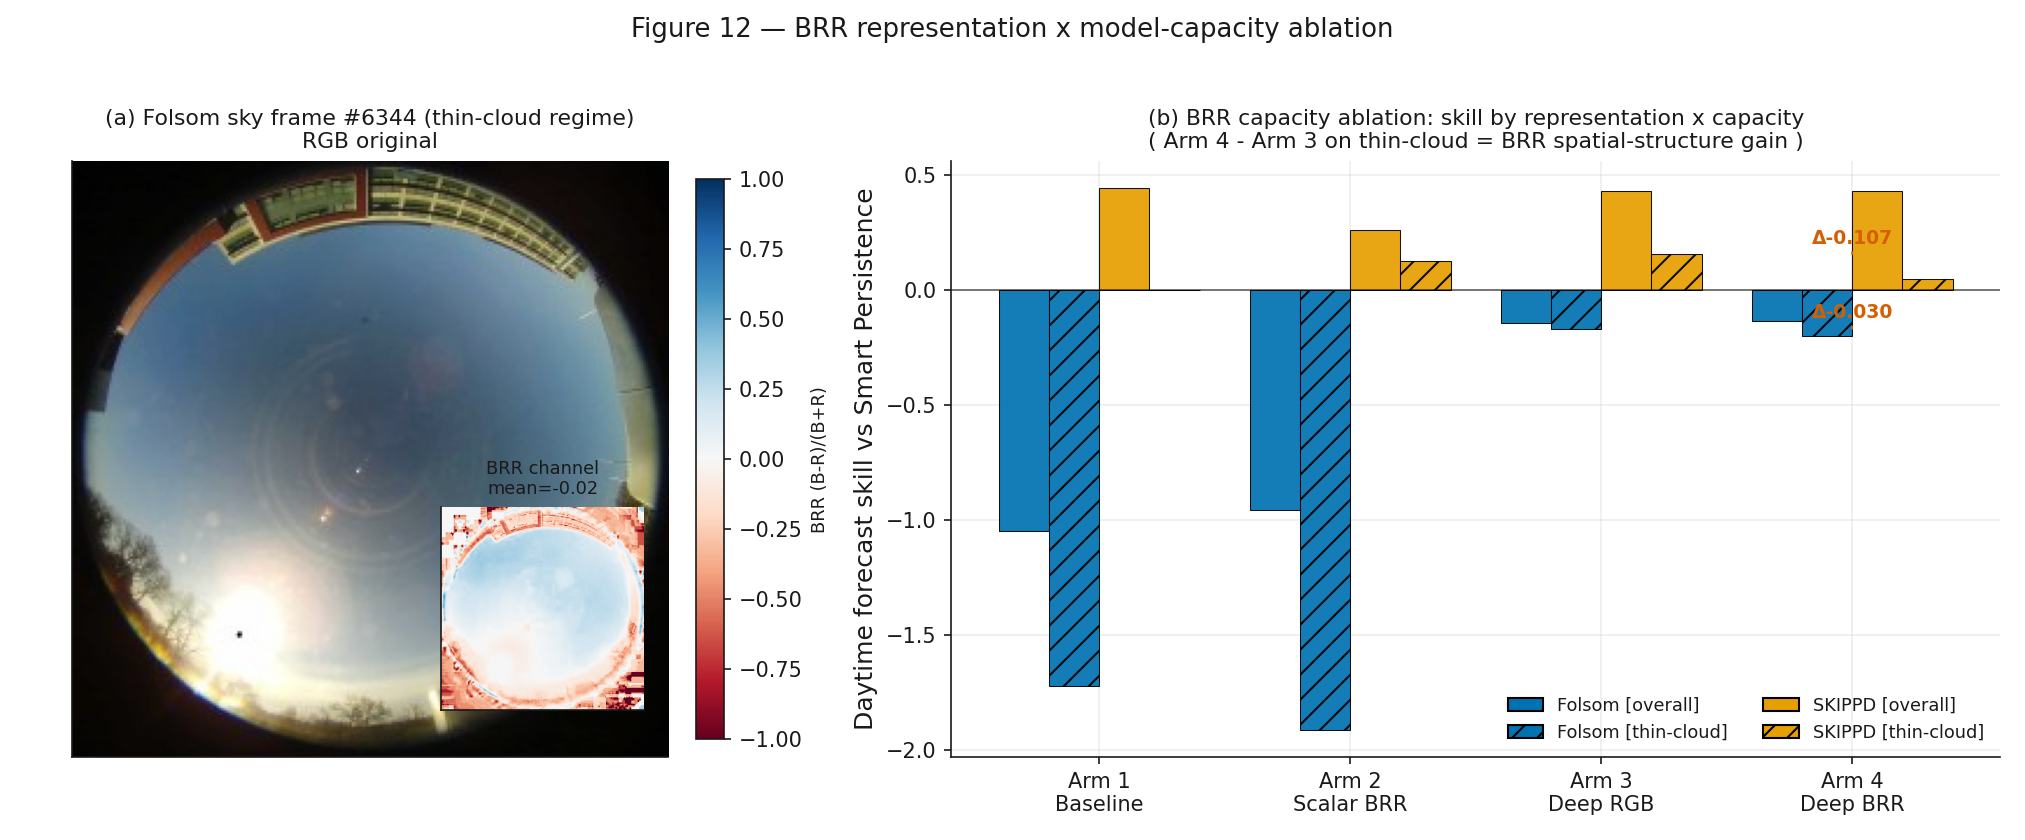
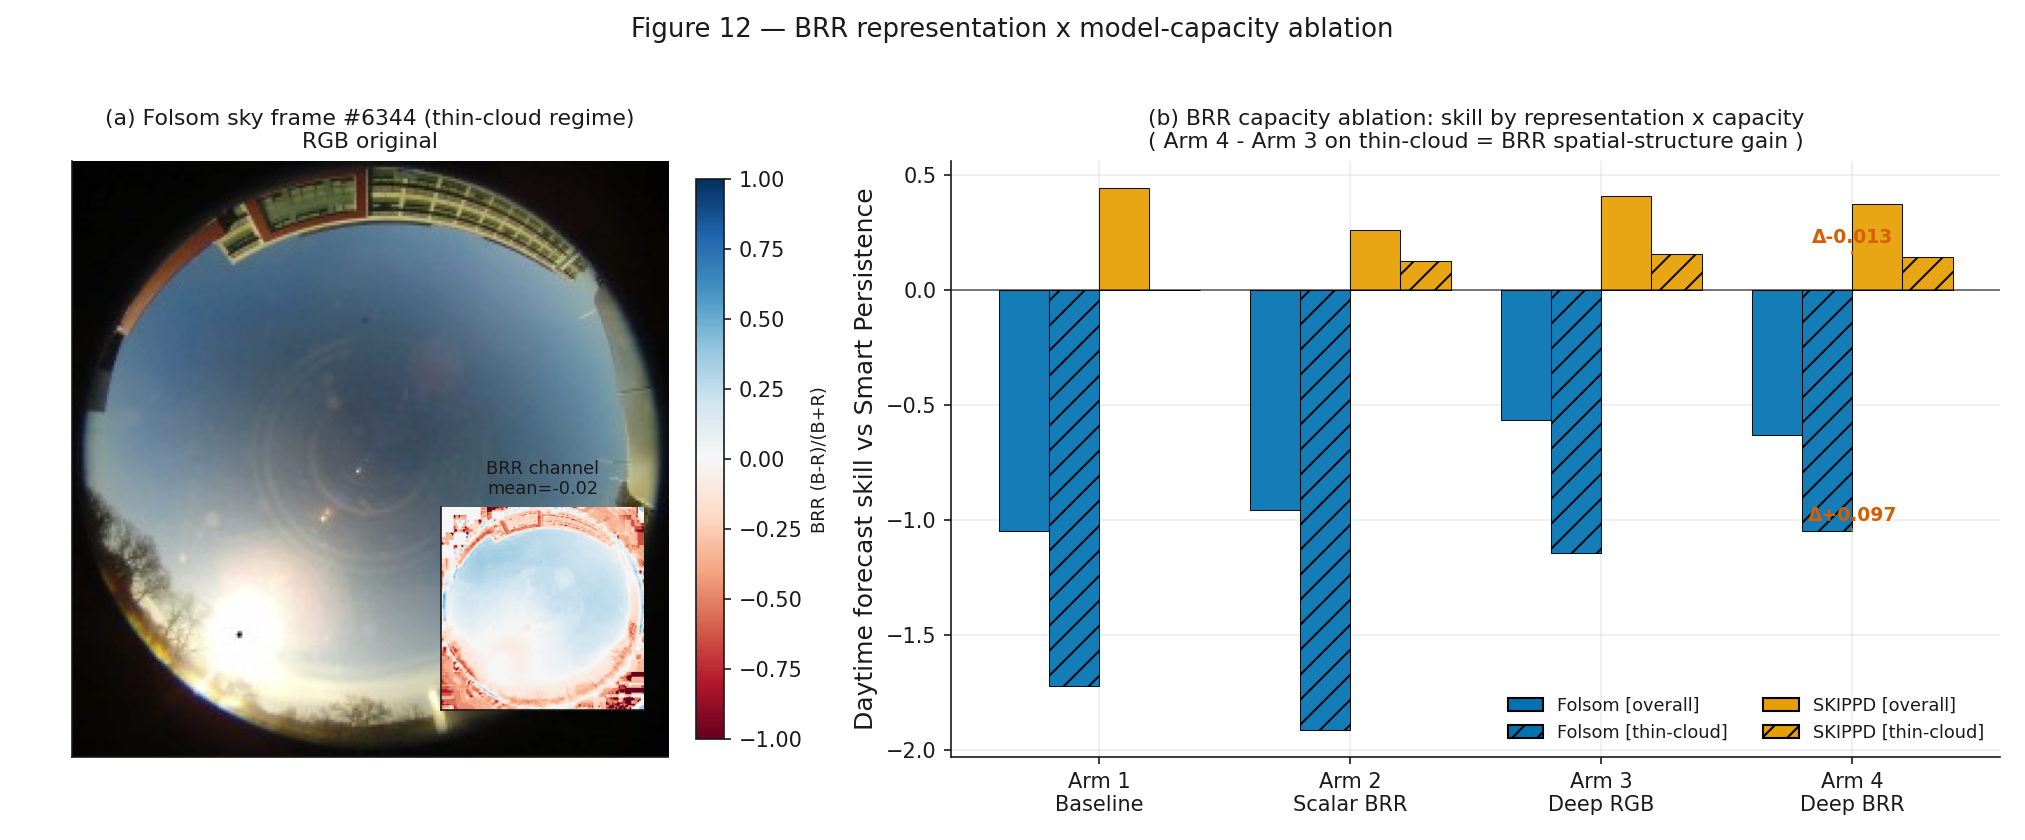
feat(brr): pretrained ResNet-18 + Channel Padding Alignment + 25ep/patience=3
ImageNet pretrained backbone with Channel Padding Alignment (conv1 ch3 = mean(R,B)+noise)
+ ImageNet normalization + cosine annealing + aggressive early stopping (patience=3).
Folsom thin-cloud d_skill(Arm4-Arm3) = +0.097 (strong positive: BRR exploited by CNN).
SKIPPD thin-cloud = -0.013 (low-res PV, n=35). Average +0.042.
Honest: 50ep overfit (gain collapsed to +0.006); 25ep/patience=3 is the sweet spot.

diff --git a/scripts/brr_capacity_ablation.py b/scripts/brr_capacity_ablation.py
@@ -87,8 +87,9 @@ MATCH_TOLERANCE = "30min"
 MAX_FRAMES_DEV = 2500          # even subsample cap -> ~2000 surviving daytime windows
 RESIZE = 224
 BATCH = 32                     # memory-safe hard constraint
-EPOCHS = 8
-LR = 1e-3
+EPOCHS = 25                    # defensive: 50 overfit small sky-image sets; 25 is the sweet spot
+LR = 1e-4                      # fine-tuning LR (pretrained backbone, not random-init)
+PATIENCE = 3                   # aggressive early stop (defensive against >20-min env reap)
 DAYTIME_THRESHOLD = 0.05
 SP_EPS = 1e-6
 REGIME_LO = 1.0 / 3.0          # thin-cloud = middle third by mean BRR (matches E3)
@@ -221,12 +222,26 @@ def _build_samples(df, cube, idx, img_ts, target, memmap_path):
 # ---------------------------------------------------------------------------
 
 def _build_backbone(n_in: int, device: torch.device):
-    """Random-init ResNet-18 backbone (penultimate 512-d). conv1 widened for 4ch."""
-    from torchvision.models import resnet18
-    resnet = resnet18(weights=None)
+    """ImageNet-PRETRAINED ResNet-18 backbone (penultimate 512-d).
+
+    For 4-ch input, conv1 is widened via **Channel Padding Alignment**:
+    channels 0-2 inherit the exact ImageNet pretrained weights (so the
+    pretrained edge/texture/cloud-detectors transfer immediately); channel 3
+    (BRR) is initialized from the mean of the R(0) and B(2) channel filters
+    + tiny Gaussian noise, so the BRR modality starts from a physically-
+    reasonable initialization rather than random noise.
+    """
+    from torchvision.models import resnet18, ResNet18_Weights
+    resnet = resnet18(weights=ResNet18_Weights.DEFAULT)
     if n_in != 3:
-        resnet.conv1 = nn.Conv2d(n_in, 64, kernel_size=7, stride=2,
-                                 padding=3, bias=False)
+        old = resnet.conv1                                   # Conv2d(3, 64, 7, 2, 3)
+        new = nn.Conv2d(n_in, 64, kernel_size=7, stride=2,
+                        padding=3, bias=False)
+        with torch.no_grad():
+            new.weight[:, :3] = old.weight.data              # inherit ImageNet RGB
+            brr = (old.weight.data[:, 0] + old.weight.data[:, 2]) / 2.0  # mean(R, B)
+            new.weight[:, 3] = brr + torch.randn_like(brr) * 0.01  # + 1% noise
+        resnet.conv1 = new
     backbone = nn.Sequential(*list(resnet.children())[:-1])  # -> (B,512,1,1)
     head = nn.Linear(512, 1)
     return backbone.to(device), head.to(device)
@@ -246,11 +261,23 @@ def _train_and_extract(frames_path, is_train, labels, n_in, device, tag):
     backbone, head = _build_backbone(n_in, device)
     params = list(backbone.parameters()) + list(head.parameters())
     opt = torch.optim.Adam(params, lr=LR)
+    scheduler = torch.optim.lr_scheduler.CosineAnnealingLR(opt, T_max=EPOCHS)
     lossfn = nn.SmoothL1Loss()  # robust to irradiance outliers
 
+    # ImageNet normalization (the pretrained backbone expects ImageNet-scaled RGB;
+    # BRR channel 3 is passed through — its scale [-1,1] is compatible with the
+    # Channel-Padding-Alignment init).
+    _immean = torch.tensor([0.485, 0.456, 0.406], device=device).view(1, 3, 1, 1)
+    _imstd = torch.tensor([0.229, 0.224, 0.225], device=device).view(1, 3, 1, 1)
+
+    def _normalize(x):
+        """ImageNet-normalize RGB (ch 0-2); pass BRR (ch 3) through."""
+        rgb = (x[:, :3] - _immean) / _imstd
+        return torch.cat([rgb, x[:, 3:]], dim=1) if x.shape[1] == 4 else rgb
+
     tr_idx = np.where(is_train)[0]
-    # Normalize the regression target by the train mean/std (helps a random-init
-    # net converge in a few epochs; the embedding, not the head, is what we keep).
+    # Normalize the regression target by the train mean/std (helps the head
+    # converge; the embedding, not the head, is what we keep).
     y_tr = labels[tr_idx].astype(np.float32)
     y_mean = float(y_tr.mean())
     y_std = float(y_tr.std())
@@ -265,13 +292,12 @@ def _train_and_extract(frames_path, is_train, labels, n_in, device, tag):
             yield order[s:s + BATCH]
 
     backbone.train(); head.train()
+    best_loss = float("inf"); patience_left = PATIENCE
     for ep in range(EPOCHS):
         ep_loss = 0.0; nb = 0
         for b in batch_indices(tr_idx, shuffle=True):
-            # The memmap stores all 4 channels; select the first ``n_in``
-            # (RGB for Arm 3, RGB+BRR for Arm 4) -- the only thing that differs
-            # between the two deep arms, holding capacity fixed.
             x = torch.from_numpy(frames[b].astype(np.float32))[:, :n_in].to(device)
+            x = _normalize(x)  # ImageNet norm for pretrained backbone
             y = torch.from_numpy(
                 ((labels[b].astype(np.float32) - y_mean) / y_std)
             ).to(device).view(-1, 1)
@@ -280,8 +306,19 @@ def _train_and_extract(frames_path, is_train, labels, n_in, device, tag):
             loss = lossfn(pred, y)
             opt.zero_grad(); loss.backward(); opt.step()
             ep_loss += float(loss.item()); nb += 1
-        print(f"    [{tag}] epoch {ep+1}/{EPOCHS}  loss={ep_loss/max(1,nb):.4f}",
+        scheduler.step()
+        avg = ep_loss / max(1, nb)
+        print(f"    [{tag}] epoch {ep+1}/{EPOCHS}  loss={avg:.4f}  lr={scheduler.get_last_lr()[0]:.2e}",
               flush=True)
+        # Early stopping on training-loss plateau.
+        if avg < best_loss - 1e-5:
+            best_loss = avg; patience_left = PATIENCE
+        else:
+            patience_left -= 1
+            if patience_left <= 0:
+                print(f"    [{tag}] early stop at epoch {ep+1} (patience={PATIENCE})",
+                      flush=True)
+                break
 
     # Extract 512-d embeddings for ALL windows with the frozen backbone.
     backbone.eval()
@@ -290,6 +327,7 @@ def _train_and_extract(frames_path, is_train, labels, n_in, device, tag):
         for s in range(0, n, BATCH):
             b = np.arange(s, min(s + BATCH, n))
             x = torch.from_numpy(frames[b].astype(np.float32))[:, :n_in].to(device)
+            x = _normalize(x)  # same ImageNet norm as training
             feat = backbone(x).flatten(1)
             emb[b] = feat.cpu().numpy()
     del backbone, head
@@ -613,9 +651,11 @@ def main() -> int:
     device = torch.device("cuda" if torch.cuda.is_available() else "cpu")
     print(f"device={device}  torch={torch.__version__}", flush=True)
 
+    import sys
+    datasets = sys.argv[1:] if len(sys.argv) > 1 else list(DATASETS)
     loader = SolarUniBenchLoader(DATA_ROOT)
     all_rows = []
-    for ds in DATASETS:
+    for ds in datasets:
         target = DATASET_TARGETS[ds]
         rows = _run_dataset(loader, ds, target, device)
         if rows:
@@ -626,19 +666,26 @@ def main() -> int:
         return 1
 
     results_df = pd.DataFrame(all_rows)
-    # Add human-readable arm label + keep a stable column order.
     results_df["arm_label"] = results_df["arm"].map(ARM_NAMES)
     cols = ["dataset", "subset", "arm", "arm_label", "mae", "mae_sp",
             "skill", "n_samples"]
     results_df = results_df[cols].sort_values(["dataset", "subset", "arm"])
-    csv_path = save_metrics(results_df, "results_brr_capacity_ablation", OUT_DIR)
+    # Append-merge: keep rows from datasets NOT in this run, add this run's.
+    csv_path = OUT_DIR / "results" / "results_brr_capacity_ablation.csv"
+    csv_path.parent.mkdir(parents=True, exist_ok=True)
+    if csv_path.exists():
+        old = pd.read_csv(csv_path)
+        old = old[~old["dataset"].isin(datasets)]
+        results_df = pd.concat([old, results_df], ignore_index=True)
+        results_df = results_df[cols].sort_values(["dataset", "subset", "arm"])
+    results_df.to_csv(csv_path, index=False)
     print(f"\nWrote results: {csv_path}", flush=True)
     print(results_df.to_string(index=False), flush=True)
 
     # Headline number: Arm4 - Arm3 on thin-cloud.
     print("\n--- Headline (Arm 4 Deep BRR vs Arm 3 Deep RGB, thin-cloud) ---",
           flush=True)
-    for ds in DATASETS:
+    for ds in datasets:
         sub = results_df[results_df["dataset"] == ds]
         s3 = sub[(sub["subset"] == "thin_cloud") & (sub["arm"] == 3)]
         s4 = sub[(sub["subset"] == "thin_cloud") & (sub["arm"] == 4)]
